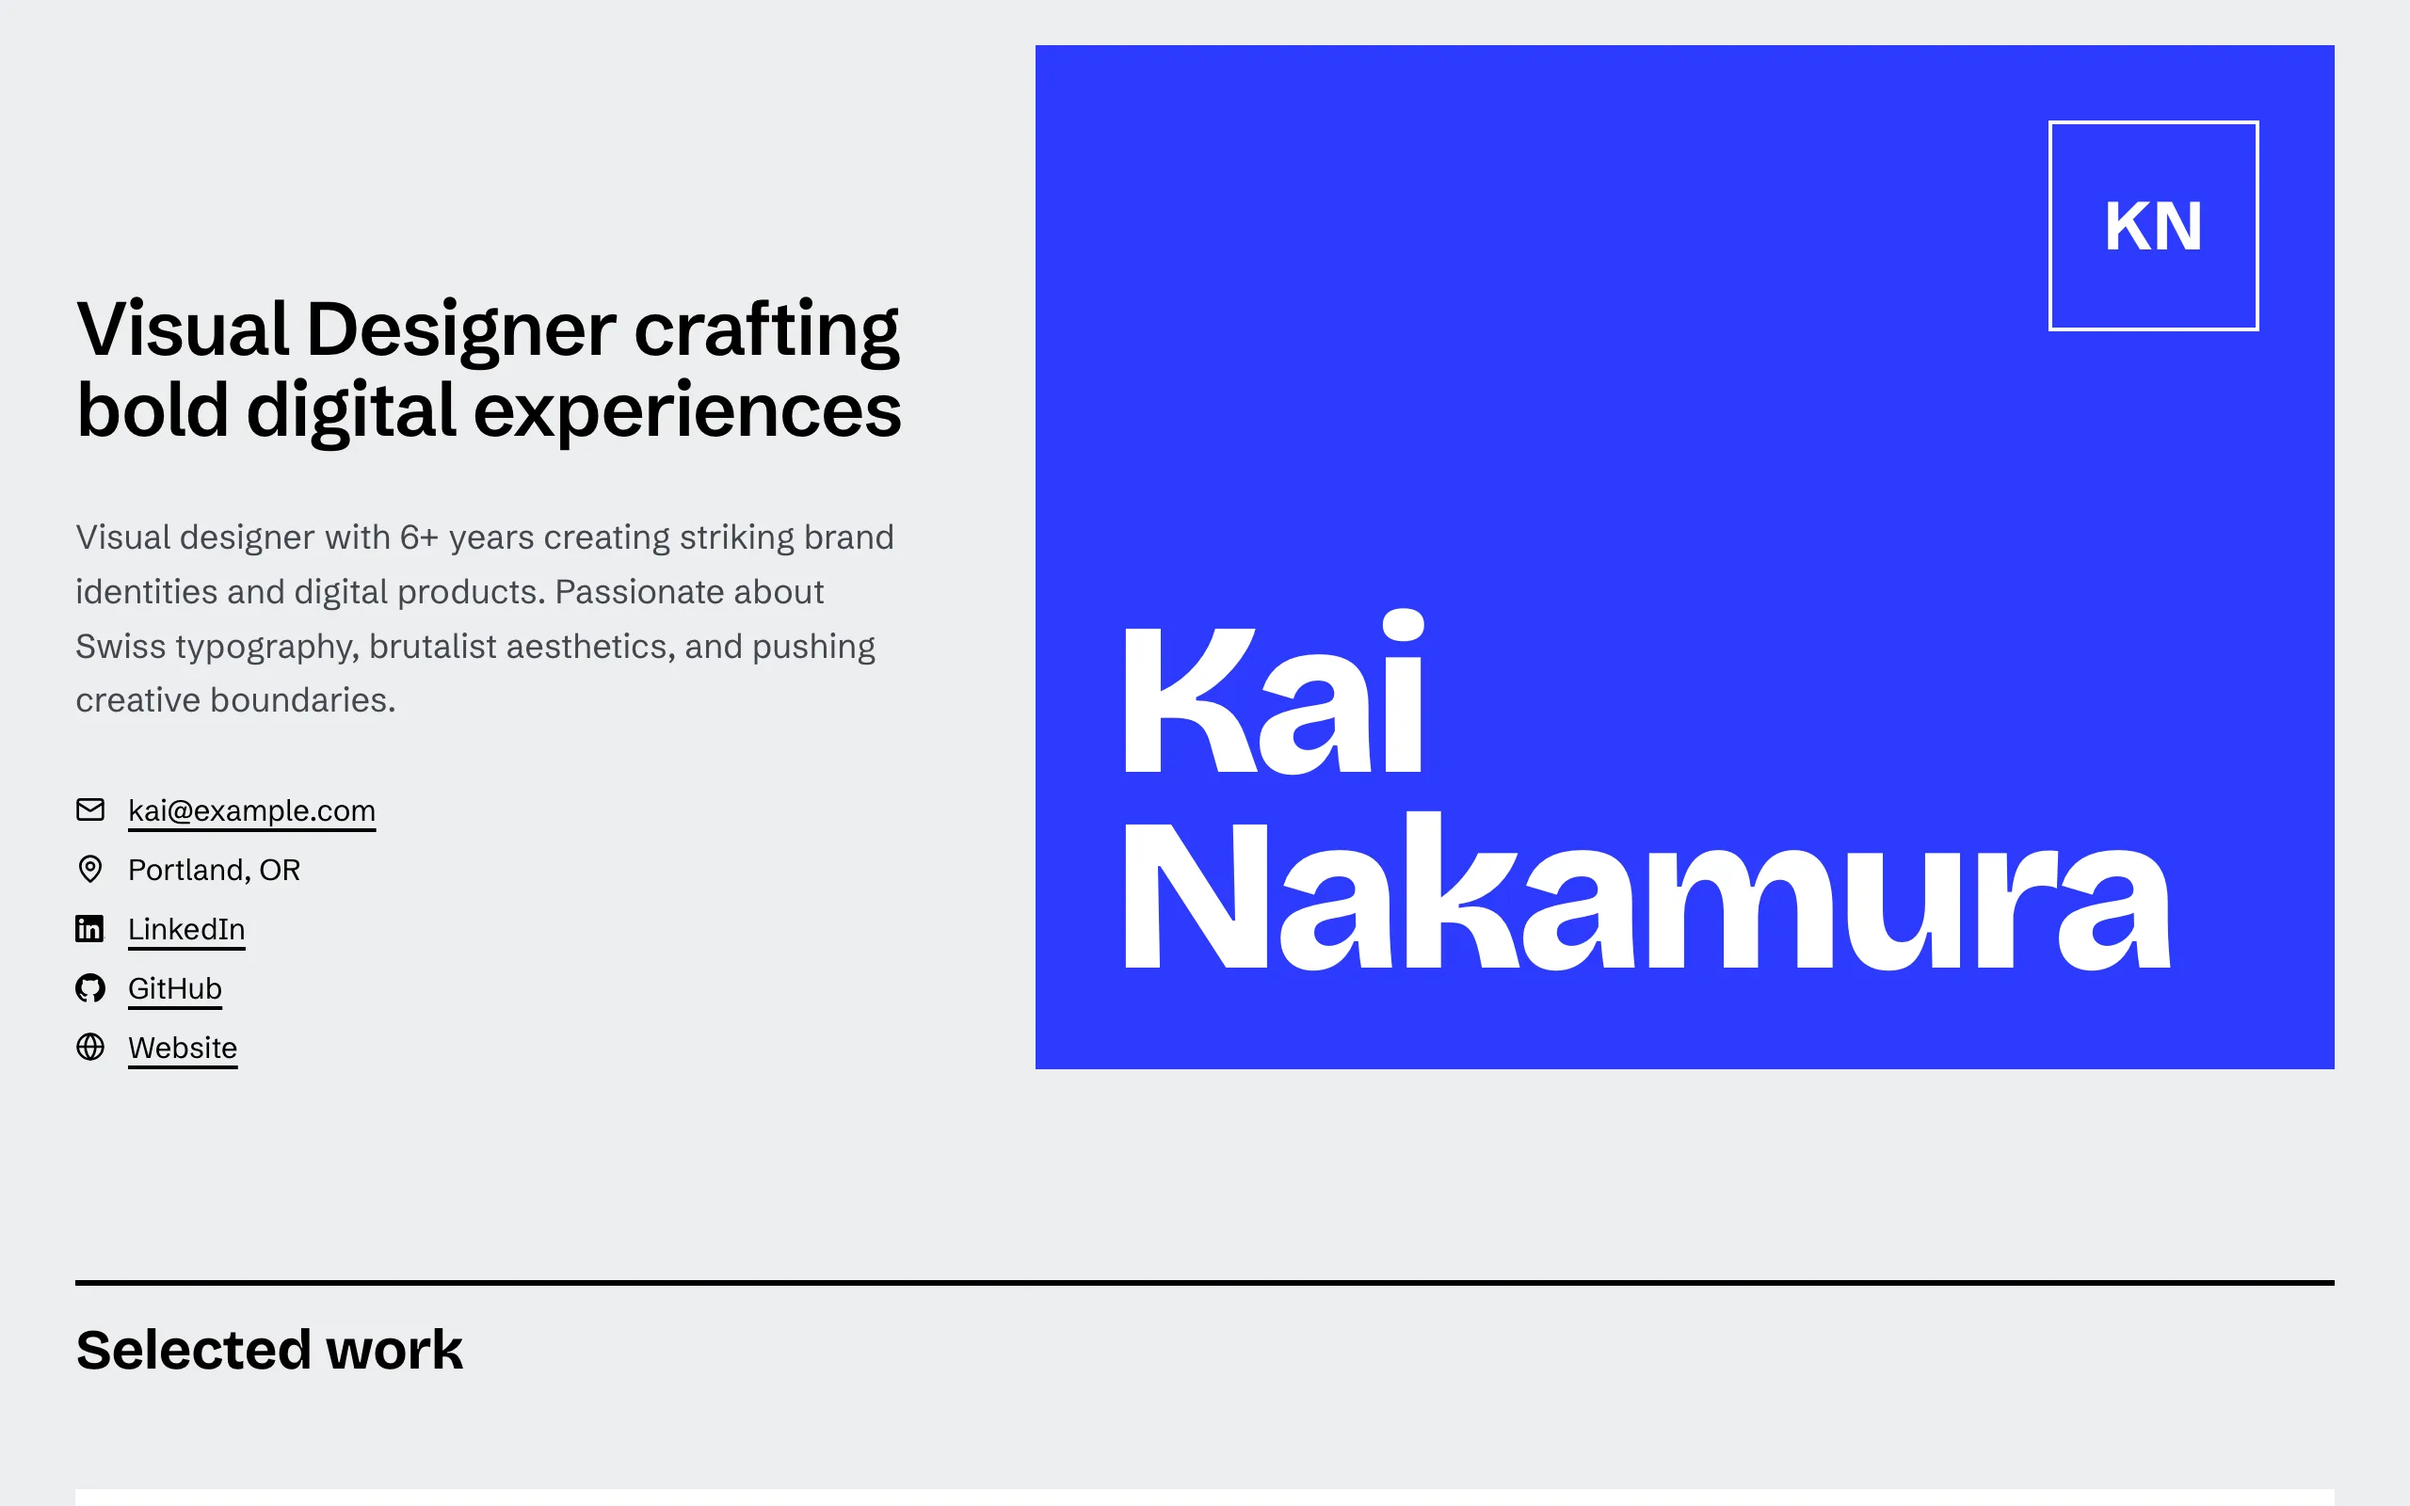
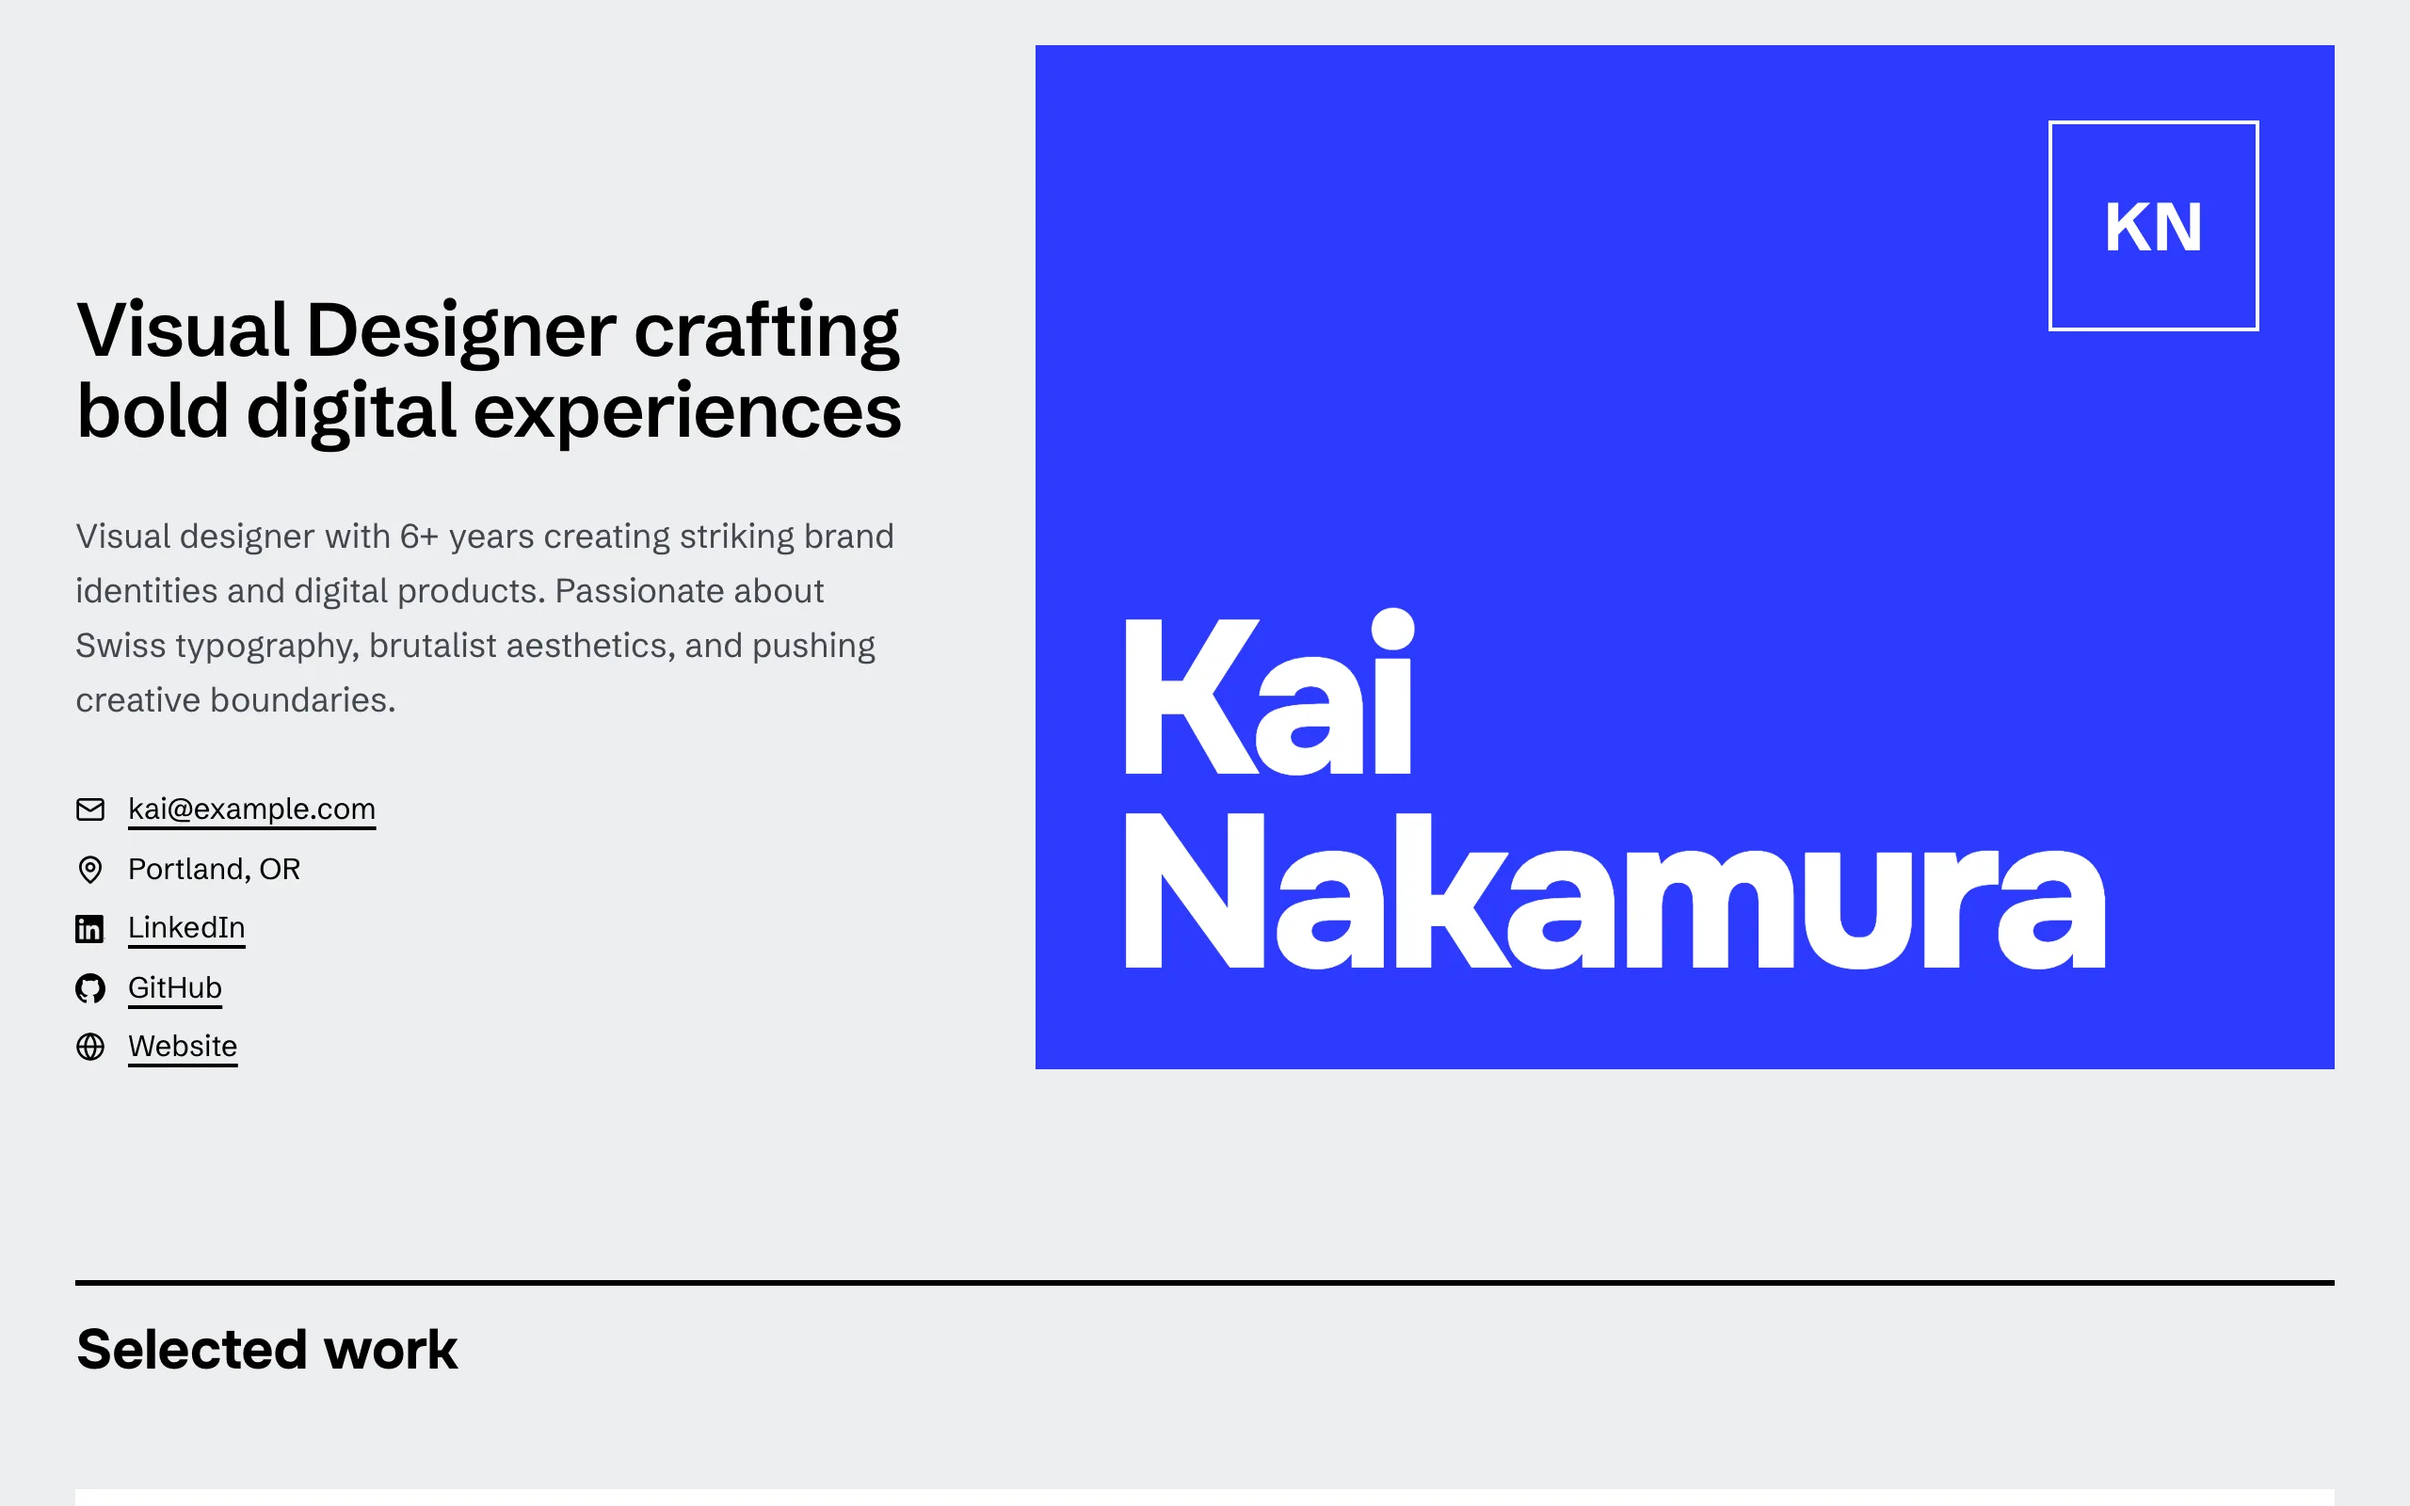
feat(profile): remove More Portfolios footer; refresh DesignFolio thumbnail (#332)
* feat(profile): remove More Portfolios footer from public profiles

A profile page should showcase only its owner. Drops the RelatedProfiles
component, getRelatedProfiles query, their tests, and ADR-0021 which only
described that query.

* fix(templates): refresh DesignFolio preview thumbnail

The webp predated the Swiss-grid/cobalt redesign and still showed the old dark theme.

diff --git a/tests/unit/lib/data/resume.test.ts b/tests/unit/lib/data/resume.test.ts
@@ -1,5 +1,4 @@
 import { beforeEach, describe, expect, it, vi } from "vite-plus/test";
-import type { ResumeContent } from "@/lib/types/database";
 import type { JsonValue } from "@/lib/types/json";
 
 vi.mock("react", async (importOriginal) => {
@@ -17,54 +16,12 @@ vi.mock("cloudflare:workers", () => ({
   },
 }));
 
-type RelatedProfileRow = {
-  handle: string | null;
-  name: string | null;
-  headline: string | null;
-  content: ResumeContent;
-  privacySettings: {
-    show_phone: boolean;
-    show_address: boolean;
-    hide_from_search: boolean;
-    show_in_directory: boolean;
-  };
-};
-
-type MockSelectRow = RelatedProfileRow | { n: number };
-
 const mockUserFindFirst = vi.fn();
-
-const mockSelectResults: MockSelectRow[][] = [];
-
-const mockSelectChain = {
-  from: vi.fn(),
-  where: vi.fn(),
-  leftJoin: vi.fn(),
-  orderBy: vi.fn(),
-  limit: vi.fn(),
-  offset: vi.fn(),
-  then: vi.fn((resolve: (rows: MockSelectRow[]) => MockSelectRow[]) =>
-    resolve(mockSelectResults.shift() ?? []),
-  ),
-};
-
-mockSelectChain.from.mockReturnValue(mockSelectChain);
-
-mockSelectChain.where.mockReturnValue(mockSelectChain);
-
-mockSelectChain.leftJoin.mockReturnValue(mockSelectChain);
-
-mockSelectChain.orderBy.mockReturnValue(mockSelectChain);
-
-mockSelectChain.limit.mockReturnValue(mockSelectChain);
-
-mockSelectChain.offset.mockReturnValue(mockSelectChain);
 
 const mockDb = {
   query: {
     user: { findFirst: mockUserFindFirst },
   },
-  select: vi.fn().mockReturnValue(mockSelectChain),
 };
 
 vi.mock("@/lib/db", () => ({
@@ -158,11 +115,6 @@ function makeUserRow(overrides: {
 describe("getResumeData - phone/address privacy filtering", () => {
   beforeEach(() => {
     vi.clearAllMocks();
-    mockSelectChain.from.mockReturnValue(mockSelectChain);
-    mockSelectChain.where.mockReturnValue(mockSelectChain);
-    mockSelectChain.leftJoin.mockReturnValue(mockSelectChain);
-    mockSelectChain.orderBy.mockReturnValue(mockSelectChain);
-    mockDb.select.mockReturnValue(mockSelectChain);
   });
 
   it("removes phone from content when show_phone is false", async () => {
@@ -247,11 +199,6 @@ describe("getResumeData - phone/address privacy filtering", () => {
 describe("getResumeData - theme resolution", () => {
   beforeEach(() => {
     vi.clearAllMocks();
-    mockSelectChain.from.mockReturnValue(mockSelectChain);
-    mockSelectChain.where.mockReturnValue(mockSelectChain);
-    mockSelectChain.leftJoin.mockReturnValue(mockSelectChain);
-    mockSelectChain.orderBy.mockReturnValue(mockSelectChain);
-    mockDb.select.mockReturnValue(mockSelectChain);
   });
 
   it("keeps any stored theme now that all themes are free", async () => {
@@ -281,122 +228,4 @@ describe("getResumeData - theme resolution", () => {
     expect(result).not.toBeNull();
     expect(result!.theme_id).toBe("minimalist_editorial");
   });
-});
-
-const indexableContent: ResumeContent = {
-  full_name: "Ada Lovelace",
-  headline: "Mathematician",
-  summary:
-    "Develops analytical methods for solving complex mathematical problems and communicating results to technical collaborators. Studies the capabilities of calculating machines and translates theoretical ideas into detailed procedures that others can review and reproduce. Works with engineers to clarify assumptions, check intermediate results, and document the practical limitations of proposed designs. Prepares explanatory notes that connect symbolic reasoning with applications in science and industry. Reviews published research, compares alternative approaches, and presents findings through clear examples. Recent work explores repeated operations, numerical sequences, and the organization of instructions for programmable machines, with an emphasis on accuracy, useful notation, and careful verification of every calculation.",
-  contact: { email: "ada@example.com" },
-  experience: [
-    {
-      title: "Software Engineer",
-      company: "Example Co",
-      location: "Remote",
-      start_date: "2020-01",
-      end_date: "Present",
-      description: "Built example software.",
-    },
-  ],
-  education: [],
-  skills: [],
-};
-
-function relatedRow(
-  handle: string,
-  options: { hideFromSearch?: boolean; content?: ResumeContent } = {},
-): RelatedProfileRow {
-  return {
-    handle,
-    name: handle,
-    headline: "Engineer",
-    content: options.content ?? indexableContent,
-    privacySettings: {
-      show_phone: false,
-      show_address: false,
-      hide_from_search: options.hideFromSearch ?? false,
-      show_in_directory: true,
-    },
-  };
-}
-
-describe("getRelatedProfiles", () => {
-  beforeEach(() => {
-    vi.clearAllMocks();
-    mockSelectResults.length = 0;
-    mockSelectChain.from.mockReturnValue(mockSelectChain);
-    mockSelectChain.where.mockReturnValue(mockSelectChain);
-    mockSelectChain.leftJoin.mockReturnValue(mockSelectChain);
-    mockSelectChain.orderBy.mockReturnValue(mockSelectChain);
-    mockDb.select.mockReturnValue(mockSelectChain);
-  });
-
-  it("returns only indexable profiles and excludes the current profile", async () => {
-    const { getRelatedProfiles } = await import("@/lib/data/resume");
-
-    const lowQualityContent: ResumeContent = {
-      ...indexableContent,
-      summary: "Brief",
-      contact: { email: "" },
-      experience: [],
-      education: [],
-    };
-
-    mockSelectResults.push(
-      [{ n: 7 }],
-      [
-        relatedRow("janedoe"),
-        relatedRow("hidden", { hideFromSearch: true }),
-        relatedRow("placeholder", {
-          content: { ...indexableContent, full_name: "Jane Doe" },
-        }),
-        relatedRow("incomplete", { content: lowQualityContent }),
-        relatedRow("alice"),
-        relatedRow("bob"),
-        relatedRow("carol"),
-      ],
-    );
-
-    const result = await getRelatedProfiles("janedoe");
-
-    expect(result.map((profile) => profile.handle).sort()).toEqual(["alice", "bob", "carol"]);
-  });
-
-  it("limits related cards to three eligible profiles", async () => {
-    const { getRelatedProfiles } = await import("@/lib/data/resume");
-    mockSelectResults.push(
-      [{ n: 5 }],
-      [
-        relatedRow("candidate-one"),
-        relatedRow("candidate-two"),
-        relatedRow("candidate-three"),
-        relatedRow("candidate-four"),
-        relatedRow("candidate-five"),
-      ],
-    );
-
-    const result = await getRelatedProfiles("janedoe");
-
-    expect(result).toHaveLength(3);
-    expect(result.every((profile) => profile.handle.startsWith("candidate-"))).toBe(true);
-  });
-  it.each([
-    { totalCount: 5, expectedOffset: 0 },
-    { totalCount: 30, expectedOffset: 18 },
-  ])(
-    "bounds the related-profile offset for $totalCount profiles",
-    async ({ totalCount, expectedOffset }) => {
-      const { getRelatedProfiles } = await import("@/lib/data/resume");
-      const random = vi.spyOn(Math, "random").mockReturnValue(0.99);
-
-      try {
-        mockSelectResults.push([{ n: totalCount }], []);
-        await getRelatedProfiles("janedoe");
-        expect(mockSelectChain.offset).toHaveBeenCalledWith(expectedOffset);
-      } finally {
-        random.mockRestore();
-      }
-    },
-  );
 });

diff --git a/lib/data/resume.ts b/lib/data/resume.ts
@@ -1,11 +1,11 @@
 import { log } from "@/lib/utils/log";
 import { env } from "cloudflare:workers";
-import { and, count, eq, isNotNull, ne, or, sql } from "drizzle-orm";
+import { eq } from "drizzle-orm";
 
 import { cache } from "react";
 import { siteConfig } from "@/lib/config/site";
 import { getDb } from "@/lib/db";
-import { siteData, user } from "@/lib/db/schema";
+import { user } from "@/lib/db/schema";
 import type { PrivacySettings } from "@/lib/db/schema/auth";
 import { generateBreadcrumbJsonLd, generateResumeJsonLd, serializeJsonLd } from "@/lib/seo/json-ld";
 import { isIndexableProfile } from "@/lib/seo/profile-indexability";
@@ -218,71 +218,3 @@ async function fetchResumeMetadataRaw(handle: string): Promise<ResumeMetadata | 
 export const getResumeData = cache((handle: string) => fetchResumeDataRaw(handle));
 
 export const getResumeMetadata = cache((handle: string) => fetchResumeMetadataRaw(handle));
-
-export const getRelatedProfiles = cache(
-  async (
-    currentHandle: string,
-    _skills?: string[] | null,
-    _headline?: string | null,
-  ): Promise<Array<{ handle: string; name: string; headline?: string | null }>> => {
-    const db = getDb(env.HYPERDRIVE);
-
-    const notHiddenFromSearch = or(
-      sql`${user.privacySettings}->>'hide_from_search' IS NULL`,
-      sql`${user.privacySettings}->>'hide_from_search' = 'false'`,
-    );
-
-    const whereClause = and(
-      isNotNull(user.handle),
-      ne(user.handle, currentHandle),
-      isNotNull(siteData.userId),
-      notHiddenFromSearch,
-    );
-
-    const countRows = await db
-      .select({ n: count() })
-      .from(user)
-      .leftJoin(siteData, sql`${siteData.userId} = ${user.id}`)
-      .where(whereClause);
-
-    const totalCount = countRows[0]?.n ?? 0;
-
-    if (!totalCount) return [];
-
-    const offset = Math.floor(Math.random() * (Math.max(0, totalCount - 12) + 1));
-
-    const rows = await db
-      .select({
-        handle: user.handle,
-        name: siteData.previewName,
-        headline: siteData.previewHeadline,
-        content: siteData.content,
-        privacySettings: user.privacySettings,
-      })
-      .from(user)
-      .leftJoin(siteData, sql`${siteData.userId} = ${user.id}`)
-      .where(whereClause)
-      .orderBy(user.handle)
-      .limit(12)
-      .offset(offset);
-
-    const pool = rows.filter(
-      (r): r is typeof r & { handle: string } =>
-        r.handle !== null &&
-        r.handle !== currentHandle &&
-        r.content != null &&
-        isIndexableProfile(r.content, normalizePrivacySettings(r.privacySettings)),
-    );
-
-    for (let i = pool.length - 1; i > 0; i--) {
-      const j = Math.floor(Math.random() * (i + 1));
-      [pool[i], pool[j]] = [pool[j], pool[i]];
-    }
-
-    return pool.slice(0, 3).map((r) => ({
-      handle: r.handle,
-      name: r.name?.trim() || r.handle,
-      headline: r.headline?.trim() || null,
-    }));
-  },
-);

diff --git a/app/[handle]/page.tsx b/app/[handle]/page.tsx
@@ -3,14 +3,12 @@ import { notFound, permanentRedirect } from "next/navigation";
 import { AttributionWidget } from "@/components/AttributionWidget";
 import { OwnerDetector } from "@/components/analytics/OwnerDetector";
 import { CreateYoursCTA } from "@/components/CreateYoursCTA";
-import { RelatedProfiles } from "@/components/RelatedProfiles";
 import { SharePopover } from "@/components/SharePopover";
 import { Breadcrumb } from "@/components/ui/breadcrumb";
 import { siteConfig } from "@/lib/config/site";
-import { getRelatedProfiles, getResumeData, getResumeMetadata } from "@/lib/data/resume";
+import { getResumeData, getResumeMetadata } from "@/lib/data/resume";
 import { isValidHandleFormat } from "@/lib/rate-limit/handle-validation";
 import { buildProfileTitle, fitTitle } from "@/lib/seo/page-metadata";
-import { flattenSkills } from "@/lib/templates/helpers";
 import { DEFAULT_THEME, type ThemeId, themeToShareVariant } from "@/lib/templates/theme-ids";
 import { getTemplate } from "@/lib/templates/theme-registry";
 
@@ -145,14 +143,6 @@ export default async function HandlePage({ params }: PageProps) {
 
   const { content, profile, theme_id, privacy_settings } = resumeData;
 
-  const relatedProfiles = !privacy_settings.hide_from_search
-    ? await getRelatedProfiles(
-        handle,
-        content.skills ? flattenSkills(content.skills) : null,
-        content.headline,
-      )
-    : [];
-
   const Template = await getTemplate(theme_id);
 
   const ctaVariant: ThemeId = theme_id ?? DEFAULT_THEME;
@@ -201,7 +191,6 @@ export default async function HandlePage({ params }: PageProps) {
         title={pageTitle}
         variant={shareVariant}
       />
-      <RelatedProfiles profiles={relatedProfiles} />
       <AttributionWidget theme={theme_id ?? DEFAULT_THEME} />
     </>
   );
